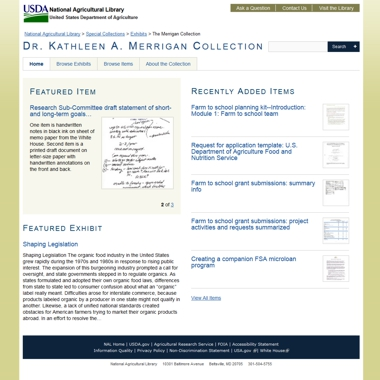
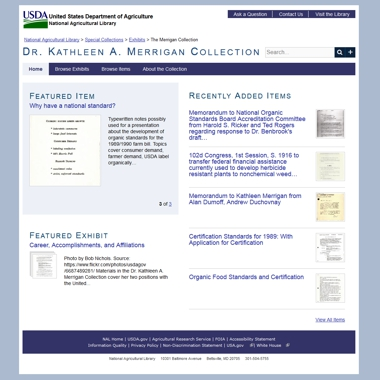
more display tweaks + add search button

diff --git a/css/style.css b/css/style.css
@@ -5,7 +5,7 @@
    
 /* Custom */
 label {
-  font-weight: 800;
+  font-weight: 600;
   }
    
 /**
@@ -685,6 +685,18 @@ header:after {
   width: 30px;
   text-indent: -9999px;
 }
+
+#search-container button {
+  background: #0D233C;
+  color: white;
+  position: absolute;
+  border: 0;
+  right: 0;
+  top: 0;
+  width: 30px;
+  text-indent: -9999px;
+}
+
 #search-container button:after {
   font-family: "FontAwesome";
   content: "\f002";
@@ -1192,7 +1204,6 @@ header:after {
   margin-left: 18px;
   margin-bottom: 18px;
   border: 1px solid #ccc;
-  padding: 2px;
   max-height: 6em;
   max-width:6em;
 }
@@ -2155,6 +2166,11 @@ footer nav + p {
 .exhibits.show #exhibit-pages a { /** NAL customization **/
   color: #015581;
 }
+
+.exhibits.show #exhibit-pages a:hover { /** NAL customization **/
+  color:#005DFF;
+}
+
 .exhibits.show #exhibit-pages ul {
   padding-left: 0;
   margin-left: 0;
@@ -2186,8 +2202,8 @@ footer nav + p {
 
 .exhibit-page-nav a:link, .exhibit-page-nav a:hover {
   padding: 0.5em 5px;
-  color: #C0563C !important;
   text-decoration: none;
+  color:#005DFF;
 }
 
 .exhibit-page-nav#secondary-nav li { /** NAL customization **/
@@ -2203,7 +2219,9 @@ footer nav + p {
   margin-left: 20px;
 }
 
-.exhibit-page-nav a:hover
+.exhibit-page-nav a:hover {
+    color:#005DFF;
+}
 .exhibit-page-nav a:active,
 .exhibit-page-nav .current a { /** NAL customization **/
   background: #fff;
@@ -2366,7 +2384,6 @@ footer nav + p {
   }
   #mobile-nav li.current a { /** NAL customization **/
     background: #fff;
-    color: #C0563C;
   }
   #mobile-nav li ul {
     position: relative;

diff --git a/css/exhibit_local.css b/css/exhibit_local.css
@@ -6,6 +6,13 @@
     box-shadow: #cccccc 3px 3px 3px;
 }
 
+#content > div.exhibit-block > div > div > div > a:hover > img:hover {
+    -webkit-box-shadow: #777 3px 3px 3px;
+    -moz-box-shadow: #777 3px 3px 3px;
+    box-shadow: #777 3px 3px 3px;
+}
+}
+
 .gallery-showcase img {
     -webkit-box-shadow: #cccccc 3px 3px 3px;
     -moz-box-shadow: #cccccc 3px 3px 3px;

diff --git a/search/search-form.php b/search/search-form.php
@@ -63,7 +63,11 @@
     </div>
 <p><a href="/exhibits/merrigan/items/search?query=&amp;query_type=keyword&amp;record_types%5B%5D=Item&amp;record_types%5B%5D=File">Advanced Search</a></p>
 </fieldset>
+<button id="submit_search" value="Search" type="submit" name="submit_search">
 
+    Search
+
+</button>
 <input type="submit" name="" value="Search"></form>
 
 <script type="text/javascript">
